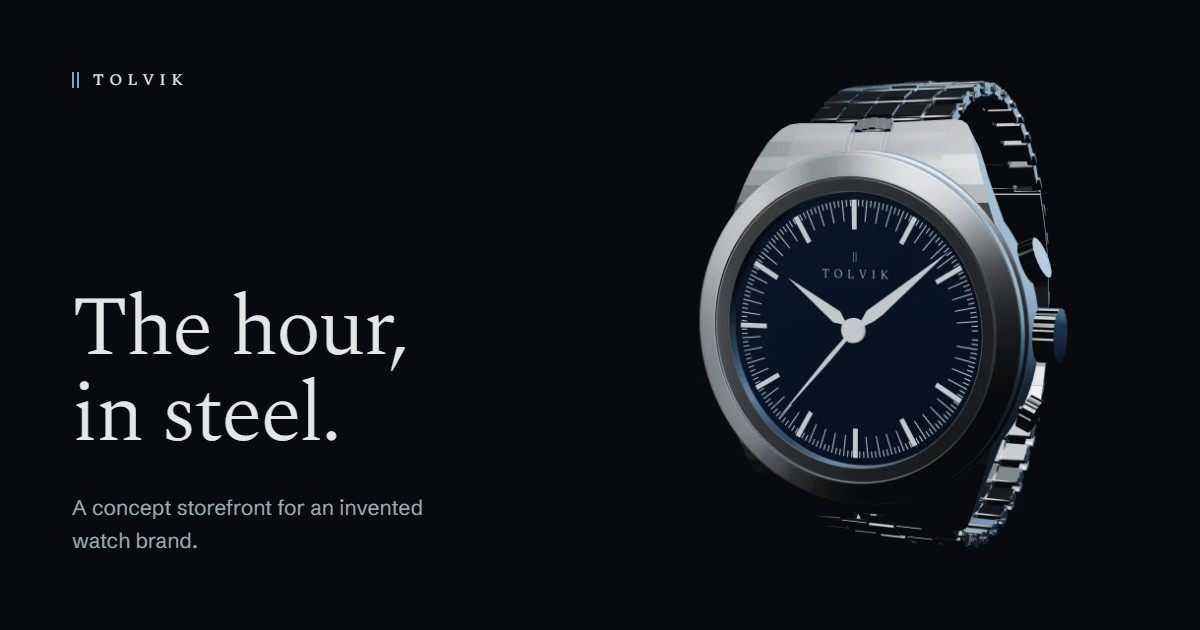
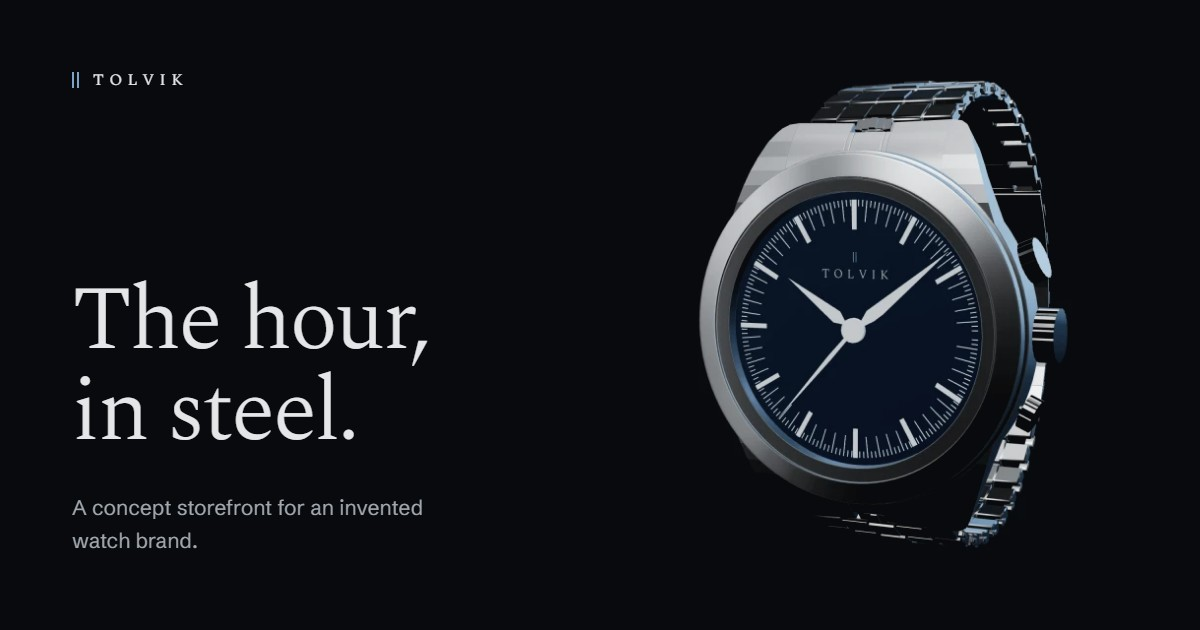
Settle the credits and Share card after review
The Share card's room sets its headline and column by the tokens, names
where its Still stands, and is closed outside the studio build like the
other rooms, with a test to say so. The footer and the credits page share
one SiteCredit. "Share card" joins the glossary, AGENTS.md knows the fourth
room, and the layout says why a preview deployment still gets its own image
address.

Changed region(s): [[0.0617, 0.4524, 0.37, 0.7238]]

diff --git a/src/app/studio/share/page.tsx b/src/app/studio/share/page.tsx
@@ -3,13 +3,17 @@ import { notFound } from "next/navigation";
 
 import { Wordmark } from "@/components/ui/Wordmark";
 import { getHeroTimepiece } from "@/lib/catalogue";
-import { SHARE_IMAGE } from "@/lib/site";
+import { SHARE_CARD } from "@/lib/site";
 
-// The studio's share room: the card a link to the site shows where it is
-// shared, laid out at the size of the image and photographed by `npm run
-// stills` into `src/app/opengraph-image.jpg`. Like the other rooms, it is
-// open only in the build that script makes.
+// The studio's fourth room: the Share card, laid out at its own size for
+// `npm run stills` to photograph into `src/app/opengraph-image.jpg`. Like
+// the others, it is open only in the build that script makes.
 const studioOpen = process.env.TOLVIK_STUDIO === "1";
+
+// How far from the card's left edge the Still stands, in CSS pixels. The
+// camera puts the watch left of the middle of its Still, so the Still runs a
+// little past the card's right edge to bring the watch into the right half.
+const STILL_LEFT = 600;
 
 export default async function ShareStudio() {
   if (!studioOpen) notFound();
@@ -20,32 +24,29 @@ export default async function ShareStudio() {
     <main
       data-share-card
       className="relative overflow-hidden bg-ink"
-      style={{ width: SHARE_IMAGE.width, height: SHARE_IMAGE.height }}
+      style={{ width: SHARE_CARD.width, height: SHARE_CARD.height }}
     >
-      {/* The Hero Timepiece as Home leaves it once it has arrived. The
-          camera puts the watch left of the middle of its Still, so the
-          Still stands a little past the card's right edge. */}
+      {/* The Hero Timepiece as Home leaves it once it has arrived. */}
       <div
         className="absolute top-0 aspect-square"
-        style={{ left: 600, height: SHARE_IMAGE.height }}
+        style={{ left: STILL_LEFT, height: SHARE_CARD.height }}
       >
         <Image
           src={front.src}
           alt=""
           fill
-          sizes={`${SHARE_IMAGE.height}px`}
+          sizes={`${SHARE_CARD.height}px`}
           quality={90}
           loading="eager"
           className="mix-blend-lighten"
         />
       </div>
 
-      <div className="relative flex h-full w-[34rem] flex-col justify-between p-18">
+      {/* Home's headline, at the size Home sets it in a window this wide. */}
+      <div className="relative flex h-full w-measure flex-col justify-between p-18">
         <Wordmark />
         <div>
-          <p className="font-display text-[5.25rem] leading-[1.02] font-light tracking-[-0.022em]">
-            The hour, in steel.
-          </p>
+          <p className="font-display text-display">The hour, in steel.</p>
           <p className="mt-8 text-lead text-platinum-dim">
             A concept storefront for an invented watch brand.
           </p>

diff --git a/src/app/credits/page.tsx b/src/app/credits/page.tsx
@@ -1,8 +1,8 @@
 import type { Metadata } from "next";
 import type { ReactNode } from "react";
 
+import { SiteCredit } from "@/components/ui/SiteCredit";
 import { creditLine, modelCredits } from "@/lib/credits";
-import { site } from "@/lib/site";
 
 export const metadata: Metadata = {
   title: "Credits",
@@ -70,11 +70,7 @@ export default function CreditsPage() {
 
         <CreditsSection id="site" heading="This site">
           <p>
-            {site.credit.lead}{" "}
-            <a href={site.credit.href} className="text-link">
-              {site.credit.name}
-            </a>
-            . All rights reserved. The 3D models remain under their own
+            <SiteCredit />. All rights reserved. The 3D models remain under their own
             licences.
           </p>
         </CreditsSection>

diff --git a/src/components/ui/SiteFooter.tsx b/src/components/ui/SiteFooter.tsx
@@ -1,11 +1,9 @@
 import Link from "next/link";
 
+import { SiteCredit } from "@/components/ui/SiteCredit";
 import { Wordmark } from "@/components/ui/Wordmark";
-import { site } from "@/lib/site";
 
 export function SiteFooter() {
-  const { credit } = site;
-
   return (
     <footer className="border-t border-line">
       <div className="page-frame grid gap-10 py-14 text-small text-platinum-dim md:grid-cols-2 md:items-end md:py-16">
@@ -18,10 +16,7 @@ export function SiteFooter() {
 
         <div className="grid gap-1 md:justify-items-end md:text-right">
           <p>
-            {credit.lead}{" "}
-            <a href={credit.href} className="text-link">
-              {credit.name}
-            </a>
+            <SiteCredit />
           </p>
           <p>
             All rights reserved.{" "}

diff --git a/src/lib/site.ts b/src/lib/site.ts
@@ -14,12 +14,11 @@ export const site = {
 } as const;
 
 /**
- * The image a link to the site shows where it is shared, in pixels: the
- * size Open Graph asks for. `npm run stills` photographs it from the
- * studio's share room into `src/app/opengraph-image.jpg`, which Next
- * offers for every page.
+ * The Share card's size in pixels: the size Open Graph asks for. `npm run
+ * stills` photographs the card from the studio's share room into
+ * `src/app/opengraph-image.jpg`, which Next offers for every page.
  */
-export const SHARE_IMAGE = { width: 1200, height: 630 } as const;
+export const SHARE_CARD = { width: 1200, height: 630 } as const;
 
 /** The address of a Collection: its place on the Collection page. */
 export function collectionPath(slug: string): string {

diff --git a/src/app/layout.tsx b/src/app/layout.tsx
@@ -31,9 +31,10 @@ const sans = Schibsted_Grotesk({
 // Next offers for every page under it.
 //
 // A shared link needs the image's full address, so `metadataBase` names the
-// address the site is deployed at, which Vercel gives the build. A preview
-// deployment uses its own address instead, and a build anywhere else this
-// machine's.
+// address the site is deployed at, which Vercel gives the build, and a build
+// anywhere else this machine's. Vercel sets the production address on a
+// preview deployment too, but Next gives an image made by its file
+// convention, as this one is, the preview's own address there.
 const deployedAt = process.env.VERCEL_PROJECT_PRODUCTION_URL;
 
 export const metadata: Metadata = {

diff --git a/e2e/collection.spec.ts b/e2e/collection.spec.ts
@@ -133,12 +133,13 @@ test("Home shows a selection of the Collection and the way to all of it", async 
   ).toHaveAttribute("href", "/collection");
 });
 
-// Its three rooms: one for each Timepiece, one for each Colourway, and the
-// escapement's.
+// Its four rooms: one for each Timepiece, one for each Colourway, the
+// escapement's and the Share card's.
 for (const address of [
   "/studio/tjern",
   "/studio/colourway/rowan-red-blackened-steel",
   "/studio/escapement",
+  "/studio/share",
 ]) {
   test(`the studio at ${address} is closed in the site a Shopper gets`, async ({
     page,

diff --git a/src/components/ui/SiteCredit.tsx b/src/components/ui/SiteCredit.tsx
@@ -1,0 +1,15 @@
+import { site } from "@/lib/site";
+
+/** The line that says who made the site, linked to the maker's GitHub. */
+export function SiteCredit() {
+  const { credit } = site;
+
+  return (
+    <>
+      {credit.lead}{" "}
+      <a href={credit.href} className="text-link">
+        {credit.name}
+      </a>
+    </>
+  );
+}

diff --git a/AGENTS.md b/AGENTS.md
@@ -80,7 +80,7 @@ Do not invent new ones. For React Three Fiber, drei, Zustand and Next.js, read t
 - Cart (`src/store/cart.ts`): the Shopper's cart, kept in their browser. Its lines and every sum done on them are pure functions in `src/store/cart-lines.ts`. `Cart` in `src/components/shop` is both its button in the header and the panel that slides out; the header hands it the Catalogue's Timepieces and Colourways, which it names and prices the lines from.
 - 3D (`src/components/three`): the canvas, the Hero Timepiece, its parts, materials, clock and Pose.
 - Sections (`src/components/home`, `shop`, `ui`): one component per act, section or widget.
-- Model tooling (`scripts/`): offline scripts that turn `models-raw/` into `public/models/` and render stills. `npm run models` prepares the Hero Timepiece and its lighter phone model, then the escapement for the craftsmanship section; `src/components/three/hero-model.ts` and `escapement-model.ts` set the names of the Parts and of the escapement's pieces and say what scene code may rely on. `npm run stills` builds the site with its studio open and photographs every Timepiece in the live scene, in its own Finish, the Hero Timepiece in each Colourway and the escapement held still, into `public/stills/`.
+- Model tooling (`scripts/`): offline scripts that turn `models-raw/` into `public/models/` and render stills. `npm run models` prepares the Hero Timepiece and its lighter phone model, then the escapement for the craftsmanship section; `src/components/three/hero-model.ts` and `escapement-model.ts` set the names of the Parts and of the escapement's pieces and say what scene code may rely on. `npm run stills` builds the site with its studio open and photographs every Timepiece in the live scene, in its own Finish, the Hero Timepiece in each Colourway and the escapement held still, into `public/stills/`, and lays out the Share card around the Hero Timepiece's Still into `src/app/opengraph-image.jpg`, which Next offers as every page's share image.
 
 Pages and components never import `src/data` directly; they call the Catalogue, whose functions are async so a real backend can replace the sample data later (section 7). Everything under `components/three` is client-only and loaded dynamically, with a still image in its place until it is ready. Scripts never run in the browser or at build time on Vercel; their outputs are committed.
 
@@ -159,7 +159,7 @@ You cannot infer these from the code, so keep them in mind.
 - Nearly every part of the source watch shares one material, so the prepared model carries none; assign materials per part in code. The bracelet's links are open shells and need a double-sided material.
 - The escapement ships with an animation named "Oscillating mechanism". Use it instead of animating the parts by hand. Its file must fit the phone budget in `escapement-model.ts`, which `npm run models` enforces; the source's textures and materials are dropped and each part is finished in code, as on the Hero Timepiece. It loads only once the page is within a screen of it, and is its Still under reduced motion. It is the one scene that draws every frame (`frameloop="always"`), and only while it is on screen and playing; held or off screen it draws on demand like the Hero Timepiece's.
 - The Hero Timepiece has two Stills on Home, both captures of the live scene. One is the opening of the arrival act, so the canvas can replace it without a visible change; the other is the watch arrived and lit, for wherever the 3D never comes. Both are taken with the dial held at 10:08:37, while the live watch shows the Shopper's own time, so the hands are the one thing that changes when the canvas takes over. After changing the model, its materials, the lighting, the camera, any of the acts, a Timepiece's Finish or a Colourway, run `npm run stills` and commit the result.
-- Every Timepiece has three Stills in the Catalogue, one of each view, each a capture of the acts where they hold the watch still: from the front as the arrival act leaves it, in profile as the turn act leaves it, and open in the Exploded View. The one from the front comes first and is the one a listing shows; the Hero Timepiece's is the arrived Still Home shows, and Home takes it from the Catalogue; only the opening Still is named in `hero-model.ts`. The camera composes the watch for the Stage, so it is not in the middle of a Still: `still-frame` in `globals.css` crops each view to an upright frame that puts it there, by positions found by eye, and a Timepiece's page shows the first Still square, uncropped, from tablet width up. Where in the acts each view is photographed is set in `VIEWS` in `scripts/render-stills.mjs`, which repeats stretches from `pose.ts` and `exploded-view.ts`; after changing the Pose, check both. All are photographed in the studio (`src/app/studio/[slug]`): Home's acts played by any Timepiece. Each Colourway's Still, from the front only, is photographed next door (`src/app/studio/colourway/[slug]`), where the Hero Timepiece plays them in that Colourway. The escapement's Still is photographed in a third room (`src/app/studio/escapement`), held at one moment of its animation. All are open only when the site is built with `TOLVIK_STUDIO=1`, which `npm run stills` does, building the site again without it once it is done; in every other build, the deployed site included, their addresses answer 404.
+- Every Timepiece has three Stills in the Catalogue, one of each view, each a capture of the acts where they hold the watch still: from the front as the arrival act leaves it, in profile as the turn act leaves it, and open in the Exploded View. The one from the front comes first and is the one a listing shows; the Hero Timepiece's is the arrived Still Home shows, and Home takes it from the Catalogue; only the opening Still is named in `hero-model.ts`. The camera composes the watch for the Stage, so it is not in the middle of a Still: `still-frame` in `globals.css` crops each view to an upright frame that puts it there, by positions found by eye, and a Timepiece's page shows the first Still square, uncropped, from tablet width up. Where in the acts each view is photographed is set in `VIEWS` in `scripts/render-stills.mjs`, which repeats stretches from `pose.ts` and `exploded-view.ts`; after changing the Pose, check both. All are photographed in the studio (`src/app/studio/[slug]`): Home's acts played by any Timepiece. Each Colourway's Still, from the front only, is photographed next door (`src/app/studio/colourway/[slug]`), where the Hero Timepiece plays them in that Colourway. The escapement's Still is photographed in a third room (`src/app/studio/escapement`), held at one moment of its animation, and the Share card in a fourth (`src/app/studio/share`), which repeats Home's headline: change one, change both. All are open only when the site is built with `TOLVIK_STUDIO=1`, which `npm run stills` does, building the site again without it once it is done; in every other build, the deployed site included, their addresses answer 404.
 - `src/lib/catalogue.ts` and the files in `src/data` import each other by relative path with the `.ts` extension, not through `@/`, so that Node can load them for `npm run stills`. Keep them free of anything Node cannot run as it is: no `@/` imports, no enums.
 - `three` is held at 0.182. From 0.183 it logs a deprecation warning for its `Clock` on every page load, because React Three Fiber 9 still uses it. Move up only together with a Fiber release that has dropped `Clock`.
 - The 3D scene draws on demand (`frameloop="demand"`): nothing is drawn until something calls `invalidate()`. Anything new that moves the watch must ask for a frame, as the act progress store and the look-around drag do.

diff --git a/CONTEXT.md b/CONTEXT.md
@@ -74,6 +74,10 @@ _Avoid_: Timer, ticker
 The part of a mechanical watch that lets its spring's energy out one beat at a time, shown at work in real-time 3D in Home's craftsmanship section. It is a model of its own, not something inside the Hero Timepiece, which has no movement.
 _Avoid_: Movement, mechanism, engine
 
+**Share card**:
+The one image a link to any page of the site shows where it is shared: the Hero Timepiece beside Home's headline. Each page pairs it with its own title and description.
+_Avoid_: OG image, social image, thumbnail
+
 **Demo Checkout**:
 A checkout that collects no payment and ends in a simulated order confirmation.
 _Avoid_: Fake checkout, mock payment, test checkout
